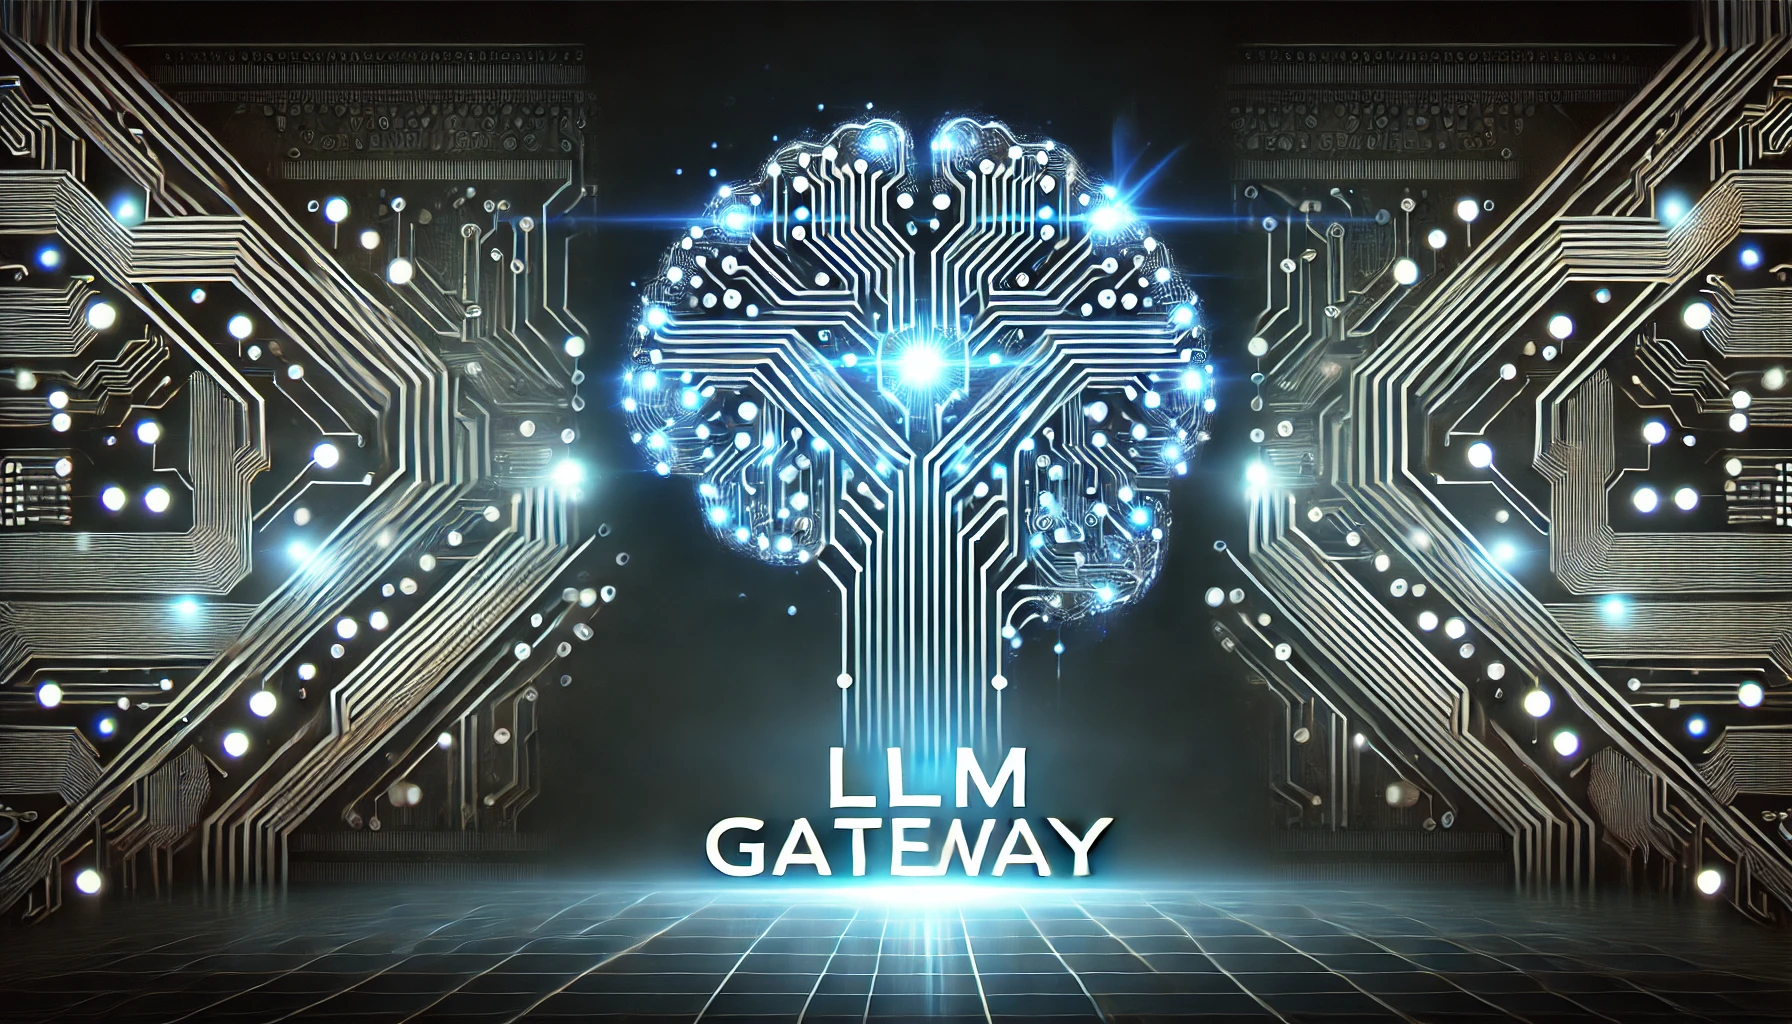
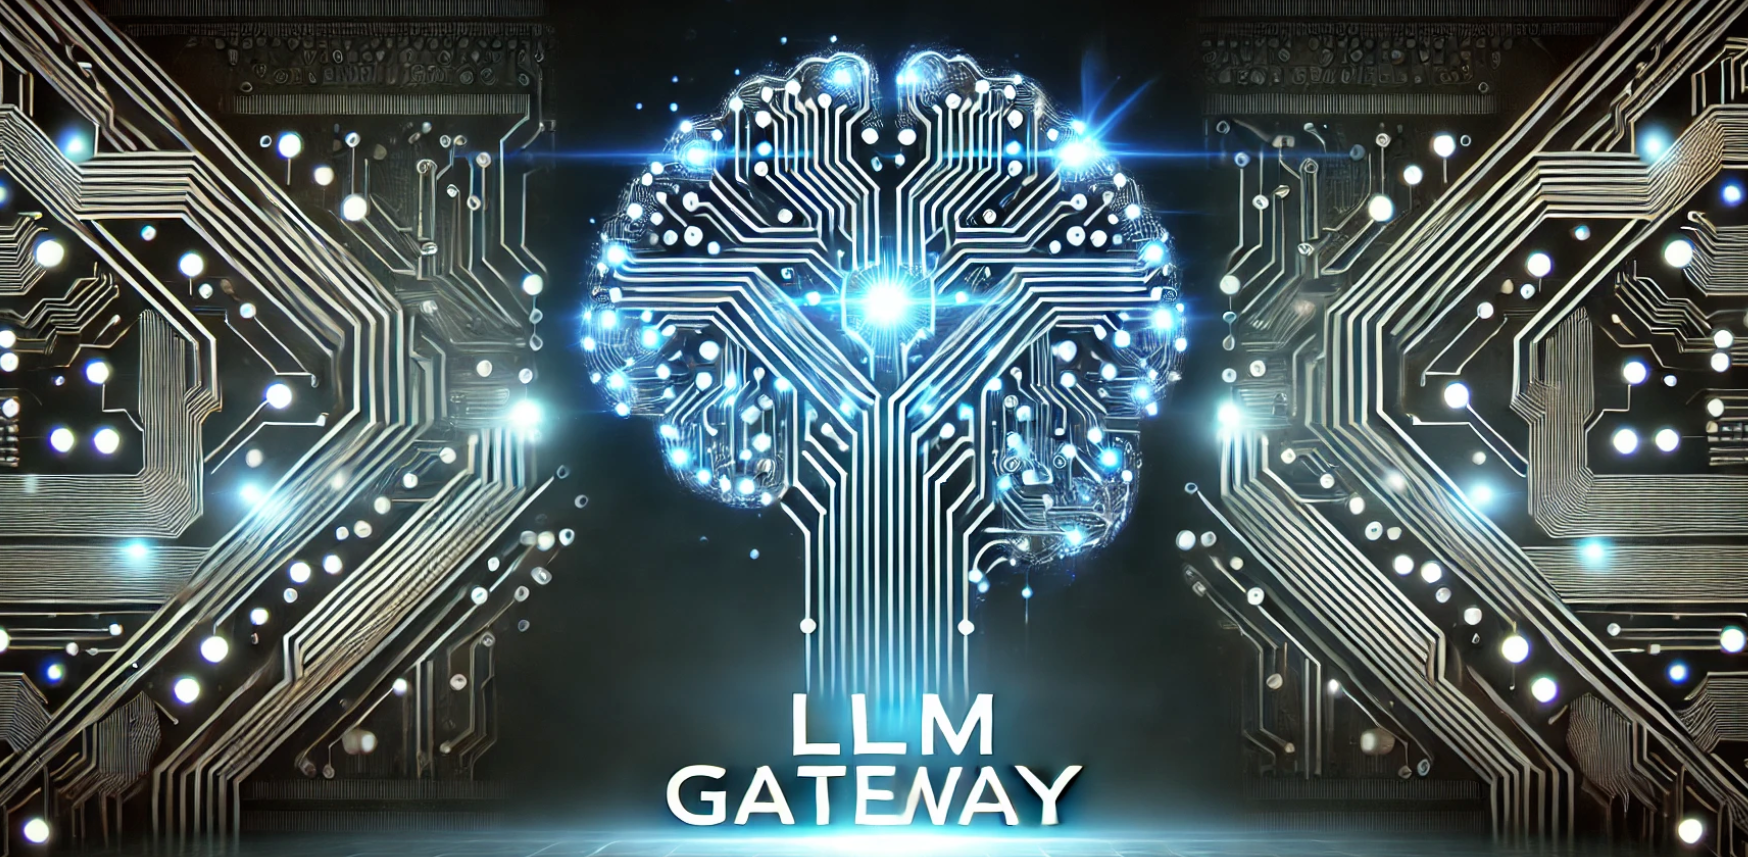
push

diff --git a/src/components/Home.jsx b/src/components/Home.jsx
@@ -57,97 +57,6 @@ function Home() {
 
   return (
     <>
-      {/* Navigation Bar */}
-      {/* <AppBar position="static" color="transparent" elevation={0} sx={{ backgroundColor: "#1a3673", color: "#fff" }}>
-        <Toolbar>
-          <Typography
-            variant="h6"
-            sx={{
-              flexGrow: 1,
-              fontWeight: "300",
-              color: "#fff",
-              fontSize: "1.75rem",
-              fontFamily:
-                "AkkuratMono,SFMono-Regular,Consolas,Liberation Mono,Menlo,Courier,monospace",
-            }}
-          >
-            Elevance Data Intelligence Platform
-          </Typography>
-
-
-          <Box
-            onMouseEnter={handleMouseEnter}
-            onMouseLeave={handleClose}
-            sx={{ position: "relative", cursor: "pointer" }}
-          >
-            <Button endIcon={<ArrowDropDownIcon />} color="primary" sx={{ color: "#fff" }}>
-              Applications
-            </Button>
-            <Menu
-              anchorEl={anchorEl}
-              open={Boolean(anchorEl)}
-              onClose={handleClose}
-              MenuListProps={{ onMouseLeave: handleClose }}
-              sx={{
-                mt: 2,
-                "& .MuiPaper-root": {
-                  width: "700px",
-                  p: 3,
-                  borderRadius: 2,
-                  boxShadow: 3,
-                  overflow: "hidden",
-                  backgroundColor: "#1a3673",
-                  color: "#fff",
-                },
-              }}
-            >
-              <Grid container spacing={2}>
-                {menuData.map((section, index) => (
-                  <Grid item xs={12} sm={6} key={index}>
-                    <Typography
-                      variant="subtitle1"
-                      sx={{ fontWeight: "bold", mb: 1, fontSize: "20px" }}
-                    >
-                      {section.title}
-                    </Typography>
-                    {section.items.map((item, i) => (
-                      <MenuItem
-                        key={i}
-                        sx={{
-                          py: 0.5,
-                          px: 0,
-                          fontWeight: "normal", // Default text weight
-                          transition: "all 0.3s", // Smooth transition
-                          ":hover": {
-                            backgroundColor: "rgba(255, 255, 255, 0.1)", // Transparent background
-                            fontWeight: "bold", // Bold text on hover
-                          },
-                        }}
-                        component={Link}
-                        to={item.url}
-                      >
-                        {item.name}
-                      </MenuItem>
-                    ))}
-                  </Grid>
-                ))}
-              </Grid>
-            </Menu>
-          </Box>
-
-
-          <Button
-            variant="contained"
-            color="primary"
-            component={Link}
-            to="/dashboard"
-            sx={{ backgroundColor: "#fff", color: "#1a3673" }}
-          >
-            Dashboard
-          </Button>
-        </Toolbar>
-      </AppBar> */}
-
       <AppBar position="static" color="transparent" elevation={0} sx={{ backgroundColor: "#1a3673", color: "#fff" }}>
         <Toolbar sx={{ display: "flex", justifyContent: "space-between", alignItems: "center" }}>
           {/* Logo on the Left */}

diff --git a/src/pages/LlmGateway.jsx b/src/pages/LlmGateway.jsx
@@ -23,9 +23,9 @@ import { getPlatforms, getModelsByPlatform, getLLMResponse } from "../services/a
 import LLM_Image from '../assets/images/LLM.png';
 
 const Banner = styled(Box)({
-    height: '600px',
+    height: '800px',
     backgroundImage: `url(${LLM_Image})`,
-    backgroundSize: 'contain',
+    backgroundSize: 'auto',
     backgroundPosition: 'center',
 });
 
